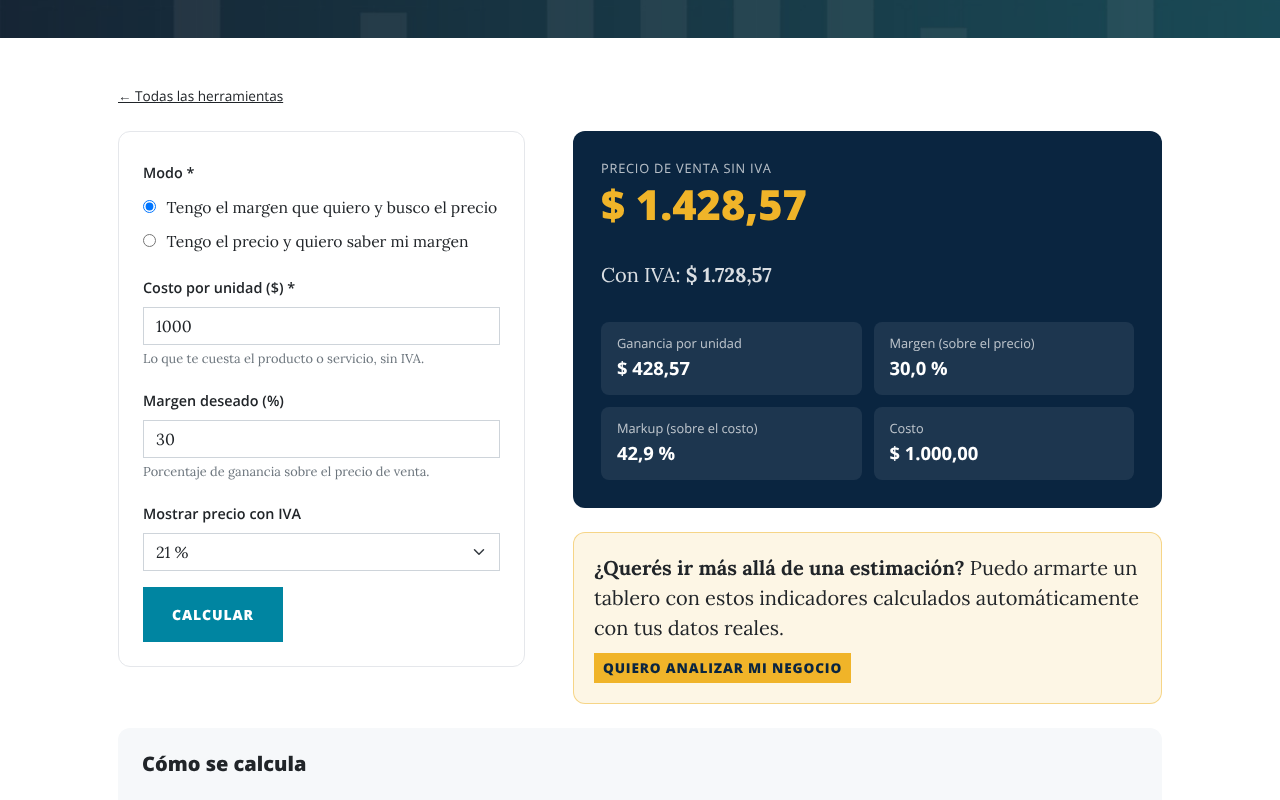
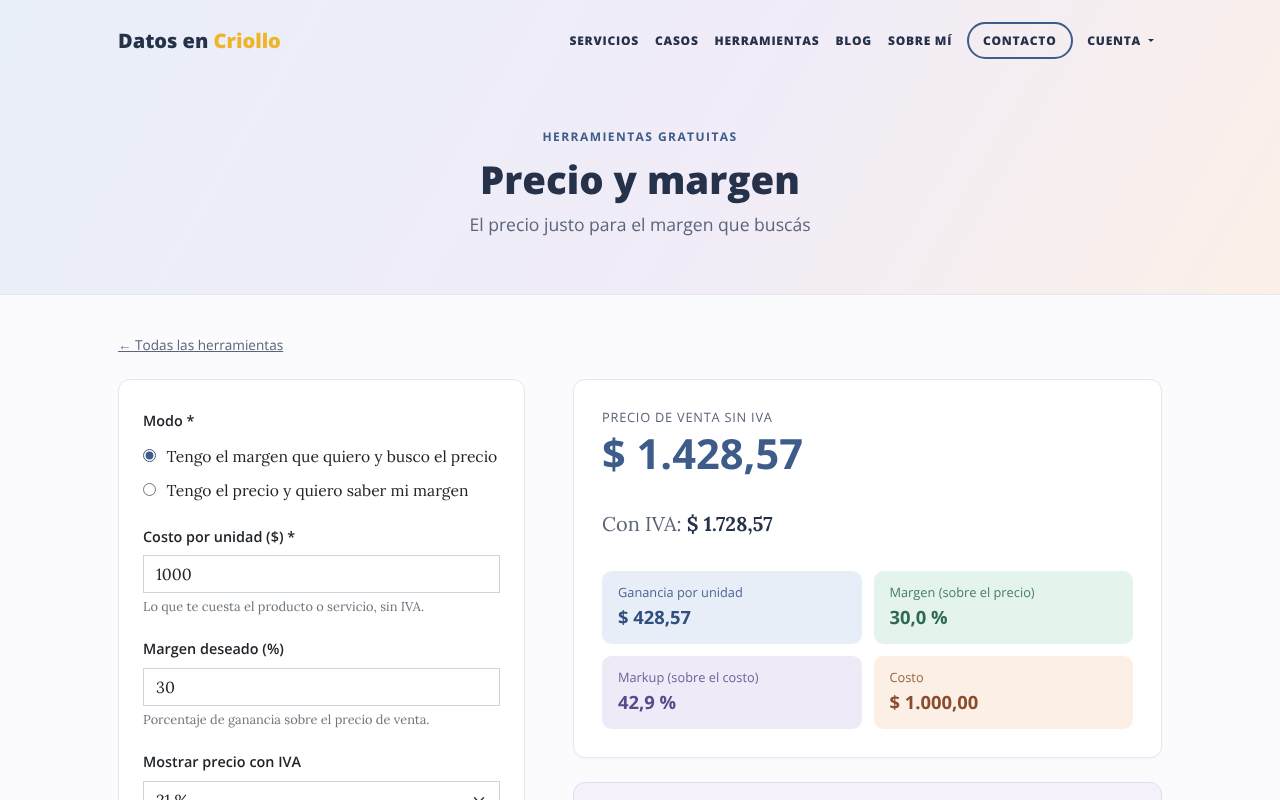
style: aplicar un tema pastel sobrio a la sección Herramientas
Fondo claro, encabezado minimalista y tarjetas de resultado en tonos
pastel (azul, menta, lavanda y durazno).

Claude-Session: https://claude.ai/code/session_01KkyTofNQKBaTxkQosPH8Ay

diff --git a/static/css/sitio.css b/static/css/sitio.css
@@ -286,3 +286,109 @@ header.masthead.masthead-inicio .site-heading { padding: 3rem 0 4rem; }
 @media (min-width: 992px) {
     header.masthead.masthead-inicio { padding-top: 7rem; padding-bottom: 3rem; }
 }
+
+/* =====================================================================
+   Tema pastel: sección Herramientas (sobrio y minimalista)
+   ===================================================================== */
+.tema-pastel {
+    --p-tinta: #26324a;        /* texto principal */
+    --p-tinta-suave: #5b6479;  /* texto secundario */
+    --p-acento: #3e5c8a;       /* azul pizarra para números y botones */
+    --p-borde: #e4e7ef;
+    --p-azul: #e8eef8;   --p-azul-t: #2f4f7f;
+    --p-menta: #e4f3ec;  --p-menta-t: #2e6a4f;
+    --p-lavanda: #eeeaf8; --p-lavanda-t: #5a4a8a;
+    --p-durazno: #fcefe6; --p-durazno-t: #8a4d2c;
+    background: #fbfbfd;
+}
+
+/* Menú sobre fondo claro */
+@media (min-width: 992px) {
+    .tema-pastel #mainNav .navbar-brand,
+    .tema-pastel #mainNav .nav-link { color: var(--p-tinta); }
+    .tema-pastel #mainNav .nav-link:hover { color: var(--p-acento); }
+    .tema-pastel #mainNav .nav-destacado { border-color: var(--p-acento); }
+}
+
+/* Encabezado */
+.cabecera-pastel {
+    padding: calc(4rem + 57px) 0 3rem;
+    margin-bottom: 2.5rem;
+    background: linear-gradient(120deg, #e9eff8 0%, #f0ecf8 55%, #fbf0e8 100%);
+    border-bottom: 1px solid var(--p-borde);
+    text-align: center;
+}
+@media (min-width: 992px) { .cabecera-pastel { padding: 8rem 0 3.5rem; } }
+.cabecera-pastel h1 { color: var(--p-tinta); font-weight: 800; font-size: 2.4rem; margin: 0; }
+.cabecera-antetitulo {
+    font-family: "Open Sans", sans-serif; font-size: 0.75rem; font-weight: 700; letter-spacing: 0.12em;
+    text-transform: uppercase; color: var(--p-acento); margin: 0 0 0.6rem;
+}
+.cabecera-subtitulo { font-family: "Open Sans", sans-serif; color: var(--p-tinta-suave); font-size: 1.1rem; margin: 0.6rem 0 0; }
+
+/* Formulario */
+.tema-pastel .calculadora-form { border-color: var(--p-borde); box-shadow: 0 1px 2px rgba(38, 50, 74, 0.04); }
+.tema-pastel .form-control:focus, .tema-pastel .form-select:focus { border-color: #a9bbd8; box-shadow: 0 0 0 0.2rem rgba(62, 92, 138, 0.12); }
+.tema-pastel .btn-primary { background: var(--p-acento); border-color: var(--p-acento); }
+.tema-pastel .btn-primary:hover { background: #33507a; border-color: #33507a; }
+.tema-pastel .form-check-input:checked, .tema-pastel input[type="radio"] { accent-color: var(--p-acento); }
+
+/* Resultado */
+.tema-pastel .resultado-calculadora {
+    background: #fff;
+    color: var(--p-tinta);
+    border: 1px solid var(--p-borde);
+    box-shadow: 0 1px 2px rgba(38, 50, 74, 0.04);
+}
+.tema-pastel .resultado-etiqueta { color: var(--p-tinta-suave); }
+.tema-pastel .resultado-numero { color: var(--p-acento); font-weight: 700; }
+.tema-pastel .resultado-sub { color: var(--p-tinta-suave); }
+.tema-pastel .resultado-sub strong { color: var(--p-tinta); }
+.tema-pastel .resultado-grilla div { border-radius: 0.6rem; }
+.tema-pastel .resultado-grilla div:nth-child(4n+1) { background: var(--p-azul); }
+.tema-pastel .resultado-grilla div:nth-child(4n+2) { background: var(--p-menta); }
+.tema-pastel .resultado-grilla div:nth-child(4n+3) { background: var(--p-lavanda); }
+.tema-pastel .resultado-grilla div:nth-child(4n+4) { background: var(--p-durazno); }
+.tema-pastel .resultado-grilla div:nth-child(4n+1) * { color: var(--p-azul-t); }
+.tema-pastel .resultado-grilla div:nth-child(4n+2) * { color: var(--p-menta-t); }
+.tema-pastel .resultado-grilla div:nth-child(4n+3) * { color: var(--p-lavanda-t); }
+.tema-pastel .resultado-grilla div:nth-child(4n+4) * { color: var(--p-durazno-t); }
+.tema-pastel .resultado-grilla span { opacity: 0.85; }
+
+/* Diagnóstico */
+.tema-pastel .barra { background: #eef0f5; }
+.tema-pastel .barra-relleno { background: linear-gradient(90deg, #a9c4e6, #b9a9e0); }
+.tema-pastel .barra-area span, .tema-pastel .barra-area strong { color: var(--p-tinta); }
+.tema-pastel .resultado-diagnostico h2 { color: var(--p-tinta-suave); }
+.tema-pastel .recomendaciones li::marker { color: #b9a9e0; }
+.tema-pastel .form-diagnostico .pregunta { background: #fff; border-color: var(--p-borde); }
+.tema-pastel .form-diagnostico .opcion:hover span { color: var(--p-acento); }
+
+/* Explicación y llamado */
+.tema-pastel .explicacion { background: #fff; border: 1px solid var(--p-borde); }
+.tema-pastel .explicacion h2 { color: var(--p-tinta); }
+.tema-pastel .llamado-chico { background: #f4f1fa; border-color: #e3dcf3; }
+.tema-pastel .btn-acento {
+    background: transparent; border: 1.5px solid var(--p-acento); color: var(--p-acento);
+}
+.tema-pastel .btn-acento:hover { background: var(--p-acento); color: #fff; }
+
+/* Índice de herramientas */
+.tema-pastel .tarjeta-herramienta { border-color: var(--p-borde); }
+.tema-pastel .grilla .tarjeta-herramienta:nth-child(4n+1) .tarjeta-icono { background: var(--p-azul); }
+.tema-pastel .grilla .tarjeta-herramienta:nth-child(4n+2) .tarjeta-icono { background: var(--p-menta); }
+.tema-pastel .grilla .tarjeta-herramienta:nth-child(4n+3) .tarjeta-icono { background: var(--p-lavanda); }
+.tema-pastel .grilla .tarjeta-herramienta:nth-child(4n+4) .tarjeta-icono { background: var(--p-durazno); }
+.tema-pastel .tarjeta-herramienta .tarjeta-icono {
+    display: inline-flex; align-items: center; justify-content: center;
+    width: 3.25rem; height: 3.25rem; border-radius: 0.8rem; font-size: 1.6rem;
+}
+.tema-pastel .tarjeta-enlace { color: var(--p-acento); }
+.tema-pastel .miga a { color: var(--p-tinta-suave); }
+@media (min-width: 992px) {
+    .tema-pastel #mainNav .navbar-nav > li.nav-item > a,
+    .tema-pastel #mainNav .navbar-nav > li.nav-item > a:focus { color: var(--p-tinta); }
+    .tema-pastel #mainNav .navbar-nav > li.nav-item > a:hover { color: var(--p-acento); }
+    .tema-pastel #mainNav .navbar-brand { color: var(--p-tinta); }
+}
+.tema-pastel .cabecera-pastel + .container .miga, .tema-pastel main .miga { margin-top: 0; }

diff --git a/herramientas/templates/herramientas/indice.html b/herramientas/templates/herramientas/indice.html
@@ -3,8 +3,10 @@
 {% block title %}Herramientas gratuitas para PyMEs · Datos en Criollo{% endblock %}
 {% block descripcion %}Calculadoras de punto de equilibrio, precio y margen, descuentos y un diagnóstico de datos gratuito para PyMEs.{% endblock %}
 
+{% block body_class %}tema-pastel{% endblock %}
+
 {% block header %}
-    {% include "_header_chico.html" with titulo="Herramientas gratuitas" subtitulo="Para decidir con números, sin registrarte" fondo="img/home-bg.jpg" %}
+    {% include "_header_pastel.html" with titulo="Herramientas para decidir con números" subtitulo="Calculadoras y un diagnóstico, sin registrarte" %}
 {% endblock %}
 
 {% block content %}

diff --git a/herramientas/templates/herramientas/diagnostico.html b/herramientas/templates/herramientas/diagnostico.html
@@ -3,8 +3,10 @@
 {% block title %}Diagnóstico de datos para PyMEs · Datos en Criollo{% endblock %}
 {% block descripcion %}10 preguntas para saber qué tan bien usa los datos tu negocio, con recomendaciones concretas. Gratis.{% endblock %}
 
+{% block body_class %}tema-pastel{% endblock %}
+
 {% block header %}
-    {% include "_header_chico.html" with titulo="Diagnóstico de datos" subtitulo="10 preguntas · 3 minutos · resultado al instante" fondo="img/home-bg.jpg" %}
+    {% include "_header_pastel.html" with titulo="Diagnóstico de datos" subtitulo="10 preguntas · 3 minutos · resultado al instante" %}
 {% endblock %}
 
 {% block content %}

diff --git a/templates/_header_pastel.html b/templates/_header_pastel.html
@@ -1,0 +1,8 @@
+{# Encabezado claro y minimalista, usado en la sección Herramientas. #}
+<header class="cabecera-pastel">
+    <div class="container px-4 px-lg-5">
+        <p class="cabecera-antetitulo">Herramientas gratuitas</p>
+        <h1>{{ titulo }}</h1>
+        {% if subtitulo %}<p class="cabecera-subtitulo">{{ subtitulo }}</p>{% endif %}
+    </div>
+</header>

diff --git a/herramientas/templates/herramientas/_base_calculadora.html b/herramientas/templates/herramientas/_base_calculadora.html
@@ -1,7 +1,9 @@
 {% extends "base.html" %}
 
+{% block body_class %}tema-pastel{% endblock %}
+
 {% block header %}
-    {% include "_header_chico.html" with titulo=titulo_pagina subtitulo=subtitulo_pagina fondo="img/home-bg.jpg" %}
+    {% include "_header_pastel.html" with titulo=titulo_pagina subtitulo=subtitulo_pagina %}
 {% endblock %}
 
 {% block content %}

diff --git a/templates/base.html b/templates/base.html
@@ -18,7 +18,7 @@
     <link href="{% static 'css/custom.css' %}" rel="stylesheet">
     <link href="{% static 'css/sitio.css' %}" rel="stylesheet">
 </head>
-<body>
+<body class="{% block body_class %}{% endblock %}">
     <!-- Navegación -->
     <nav class="navbar navbar-expand-lg navbar-light" id="mainNav">
         <div class="container px-4 px-lg-5">
